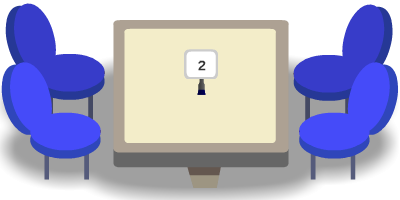
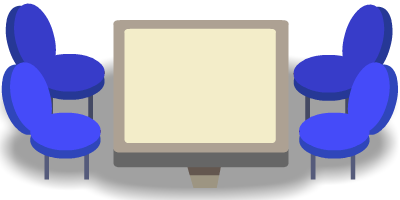
:zap:New computer&Improve player

Changed region(s): [[0.45, 0.24, 0.57, 0.48]]

diff --git a/MalaDash/src/maladash/src/components/Controllers/MainGameController.java b/MalaDash/src/maladash/src/components/Controllers/MainGameController.java
@@ -13,6 +13,9 @@ public class MainGameController {
     private ArrayList<JPanel> tableViews, malaViews;
     private JPanel table1, table2, table3, table4, mala1, mala2, mala3, mala4;
     private MalaController malaController;
+    private PlayerController player;
+    private ComputerController computer;
+    
 
     public MainGameController() {
         //Initate Model
@@ -20,16 +23,14 @@ public class MainGameController {
         view = new MainGameView();
         view.setImg(model.getImg());
         view.setLayout(null);
-      
+        
         //Table
         tableViews = new ArrayList();
         for (int i = 1; i <= 4; i++) {
             if (i < 2) {
                 tableViews.add(new TableController(i, 4).getTableView());
-                System.out.println(i);
             } else {
                 tableViews.add(new TableController(i, 2).getTableView());
-                System.out.println(i);
             }
         }
         table1 = tableViews.get(0);
@@ -37,36 +38,45 @@ public class MainGameController {
         table3 = tableViews.get(2);
         table4 = tableViews.get(3);
 
-        view.add(table1);
-        view.add(table2);
-        view.add(table3);
-        view.add(table4);
-
         //Mala
         malaViews = new ArrayList();
         for (int i = 1; i <= 4; i++) {
-               malaViews.add(new MalaController(i).getMalaView());
-            }
+            malaViews.add(new MalaController(i).getMalaView());
+        }
           
         mala1 = malaViews.get(0);
         mala2 = malaViews.get(1);
         mala3 = malaViews.get(2);
         mala4 = malaViews.get(3);
-
+        
+        //Player
+        player = new PlayerController();
+        
+        //Bill
+        computer = new ComputerController();
+        computer.setPlayer(player.getModel().getPlayer());
+        
+        JButton move = new JButton("Move");
+        move.setBounds(50, 50, 100, 50);
+        player.setMove(move);
+        
+        
+        
+        //Add to view
+        view.add(table1);
+        view.add(table2);
+        view.add(table3);
+        view.add(table4);
+        
         view.add(mala1);
         view.add(mala2);
         view.add(mala3);
         view.add(mala4);
-
-        //Player
-        PlayerController p1 = new PlayerController();
-        
-        JButton move = new JButton("Move");
-        move.setBounds(50, 50, 100, 50);
-        p1.setMove(move);
         
         view.add(move);
-        view.add(p1.getView());
+        view.add(player.getView());
+        
+        view.add(computer.getView());
         
     }
 

diff --git a/MalaDash/src/maladash/src/components/Models/ComputerModel.java b/MalaDash/src/maladash/src/components/Models/ComputerModel.java
@@ -1,0 +1,59 @@
+package maladash.src.components.Models;
+
+import java.awt.Graphics;
+import java.awt.Graphics2D;
+import java.awt.Image;
+import java.awt.image.BufferedImage;
+import java.net.URL;
+import javax.imageio.ImageIO;
+import javax.swing.ImageIcon;
+import maladash.src.components.Classes.Player;
+
+public class ComputerModel {
+    private Player player;
+    private boolean imageLoaded;
+    private BufferedImage img;
+    
+    public ComputerModel(){
+        player = new Player(false, 0, false, false, false, 5, 0, 0);
+        imageLoaded = init();
+        if(imageLoaded) System.out.println("[Computer]: Model loaded.");
+        else System.out.println("[Computer]: Model fail to load.");
+    }
+
+    public boolean init(){
+        URL imageFile = this.getClass().getResource("../../images/com.png");
+        try{
+            img = ImageIO.read(imageFile);
+            return true;
+        }catch(Exception ex){
+            ex.printStackTrace();
+            return false;
+        }
+        
+    }
+
+    public Player getPlayer() {
+        return player;
+    }
+
+    public void setPlayer(Player player) {
+        this.player = player;
+    }
+
+    public boolean isImageLoaded() {
+        return imageLoaded;
+    }
+
+    public void setImageLoaded(boolean imageLoaded) {
+        this.imageLoaded = imageLoaded;
+    }
+
+    public BufferedImage getImg() {
+        return img;
+    }
+
+    public void setImg(BufferedImage img) {
+        this.img = img;
+    }
+}

diff --git a/MalaDash/src/maladash/src/components/Controllers/ComputerController.java b/MalaDash/src/maladash/src/components/Controllers/ComputerController.java
@@ -1,0 +1,55 @@
+package maladash.src.components.Controllers;
+
+import java.awt.event.*;
+import maladash.src.components.Classes.Player;
+import maladash.src.components.Models.ComputerModel;
+import maladash.src.components.Views.ComputerView;
+
+public class ComputerController{
+    private Player player;
+    private ComputerModel model;
+    private ComputerView view;
+    
+    public ComputerController(){
+        model = new ComputerModel();
+        view = new ComputerView();
+        view.setImg(model.getImg());
+        
+        view.setOpaque(false);
+        view.setBounds(775, 175, 136, 117);
+        
+        view.addMouseListener(new MouseAdapter(){
+            @Override
+            public void mouseClicked(MouseEvent e){
+//                Thread t = new Thread(new MalaController(player.getBill()));
+                System.out.println("[Mock]: new MalaController created.");
+            }
+        });
+    }
+
+    public ComputerModel getModel() {
+        return model;
+    }
+
+    public void setModel(ComputerModel model) {
+        this.model = model;
+    }
+
+    public ComputerView getView() {
+        return view;
+    }
+
+    public void setView(ComputerView view) {
+        this.view = view;
+    }
+
+    public Player getPlayer() {
+        return player;
+    }
+
+    public void setPlayer(Player player) {
+        this.player = player;
+    }
+
+    
+}

diff --git a/MalaDash/src/maladash/src/components/Controllers/PlayerController.java b/MalaDash/src/maladash/src/components/Controllers/PlayerController.java
@@ -15,9 +15,10 @@ public class PlayerController implements ActionListener, Runnable{
     
     //Boolean
     private boolean isPositionReseted = false;
+    private boolean isMoving = false;
+    private boolean sameTable = false;
     
     //Integer
-    private int tm_count = 0;
     private int default_X = 1075;
     private int default_Y = 250;
     
@@ -87,11 +88,11 @@ public class PlayerController implements ActionListener, Runnable{
             //If select a table that player already in
             if(model.getPlayer().getTarget() == model.getPlayer().getWhichTable()){
                 tm.stop();
-                tm_count = -1;
+                sameTable = true;
             }
             
             
-            if(tm_count != -1){
+            if(!sameTable){
                 if(isPositionReseted){
 
                     if(model.getPlayer().getTarget() == 1){
@@ -121,9 +122,6 @@ public class PlayerController implements ActionListener, Runnable{
                 }
             }
             
-            
-            tm_count++;
-            System.out.println(tm_count);
         }
     }
 

diff --git a/MalaDash/src/maladash/src/components/Views/ComputerView.java b/MalaDash/src/maladash/src/components/Views/ComputerView.java
@@ -1,0 +1,30 @@
+package maladash.src.components.Views;
+
+import java.awt.*;
+import java.awt.image.BufferedImage;
+import javax.swing.JPanel;
+
+public class ComputerView extends JPanel{
+    BufferedImage img;
+    
+    @Override
+    public void paintComponent(Graphics g){
+        super.paintComponent(g);
+        
+        Graphics2D g2D = (Graphics2D) g;
+        g2D.drawRect(0, 0, (int)this.getSize().getWidth(), (int)this.getSize().getHeight());
+        g2D.drawImage(img, 0, 0, this);
+    }
+
+    public BufferedImage getImg() {
+        return img;
+    }
+
+    public void setImg(BufferedImage img) {
+        this.img = img;
+        this.revalidate();
+        this.repaint();
+    }
+    
+    
+}

diff --git a/MalaDash/src/maladash/src/components/Models/MainGameModel.java b/MalaDash/src/maladash/src/components/Models/MainGameModel.java
@@ -14,9 +14,9 @@ public class MainGameModel {
     public MainGameModel(){
         imageLoaded = init();
         if(imageLoaded){
-            System.out.println("[MainGameBG]: Image loaded.");
+            System.out.println("[MainGame]: Image loaded.");
         }else{
-            System.out.println("[MainGameBG]: Image failed to loaded.");
+            System.out.println("[MainGame]: Image failed to loaded.");
         }
     }
     

diff --git a/MalaDash/src/maladash/src/components/Models/MalaModel.java b/MalaDash/src/maladash/src/components/Models/MalaModel.java
@@ -24,7 +24,6 @@ public class MalaModel {
     
     public boolean init(){
         URL imageFile = this.getClass().getResource("../../images/mala.png");
-        System.out.println(imageFile);
         try{
             img = ImageIO.read(imageFile);
             return true;

diff --git a/MalaDash/src/maladash/src/components/Classes/Computer.java b/MalaDash/src/maladash/src/components/Classes/Computer.java
@@ -1,0 +1,13 @@
+package maladash.src.components.Classes;
+
+public class Computer {
+    private boolean cooking;
+
+    public boolean isCooking() {
+        return cooking;
+    }
+
+    public void setCooking(boolean cooking) {
+        this.cooking = cooking;
+    }
+}

diff --git a/MalaDash/src/maladash/src/components/Views/MainMenuView.java b/MalaDash/src/maladash/src/components/Views/MainMenuView.java
@@ -49,6 +49,7 @@ public class MainMenuView extends JPanel{
         this.add(optionButton, constraint);
         constraint.gridy = 2;
         this.add(exitButton, constraint);
+        
         System.out.println("[MainMenuView]: View loaded.");
     }
     
